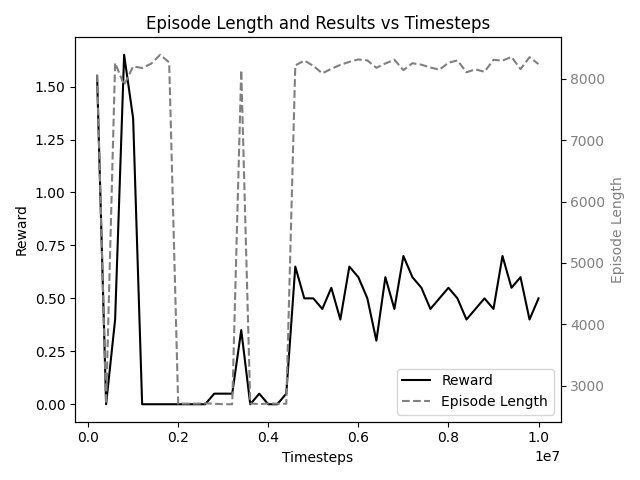
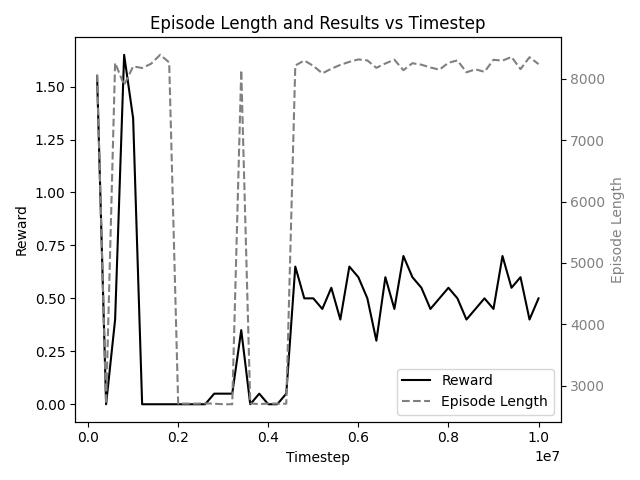
Changed label from timesteps to timestep

Changed region(s): [[0.2188, 0.0312, 0.7812, 0.0625], [0.4375, 0.9375, 0.5625, 0.9688]]

diff --git a/eval_logs_math.py b/eval_logs_math.py
@@ -38,7 +38,7 @@ try:
         'k-', 
         label='Reward'
     )  # Black line
-    ax1.set_xlabel('Timesteps')
+    ax1.set_xlabel('Timestep')
     ax1.set_ylabel('Reward', color='k')
     ax1.tick_params(axis='y', labelcolor='k')
 
@@ -57,7 +57,7 @@ try:
     ax2.tick_params(axis='y', labelcolor='gray')
 
     # Add title and legend
-    plt.title('Episode Length and Results vs Timesteps')
+    plt.title('Episode Length and Results vs Timestep')
     fig.tight_layout()
     plt.legend([rline, eline], [l.get_label() for l in [rline, eline]])
 
